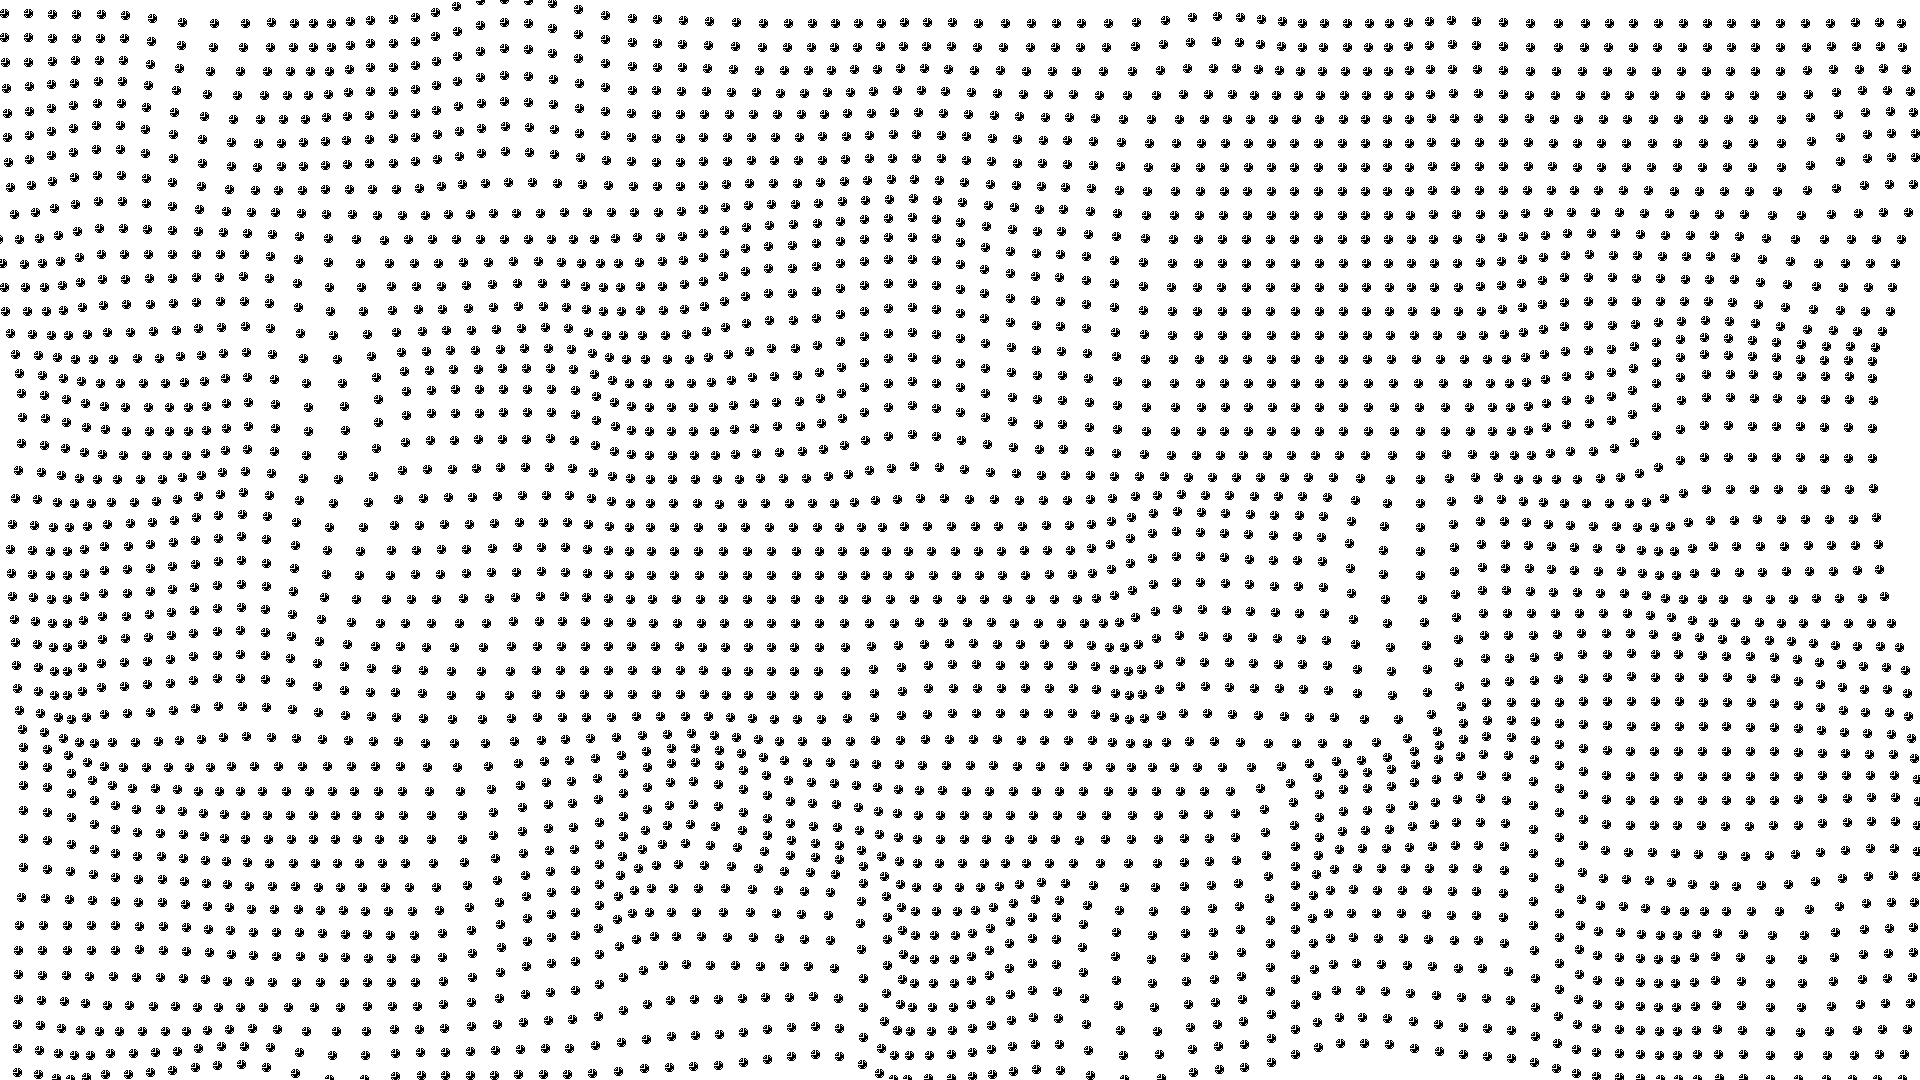
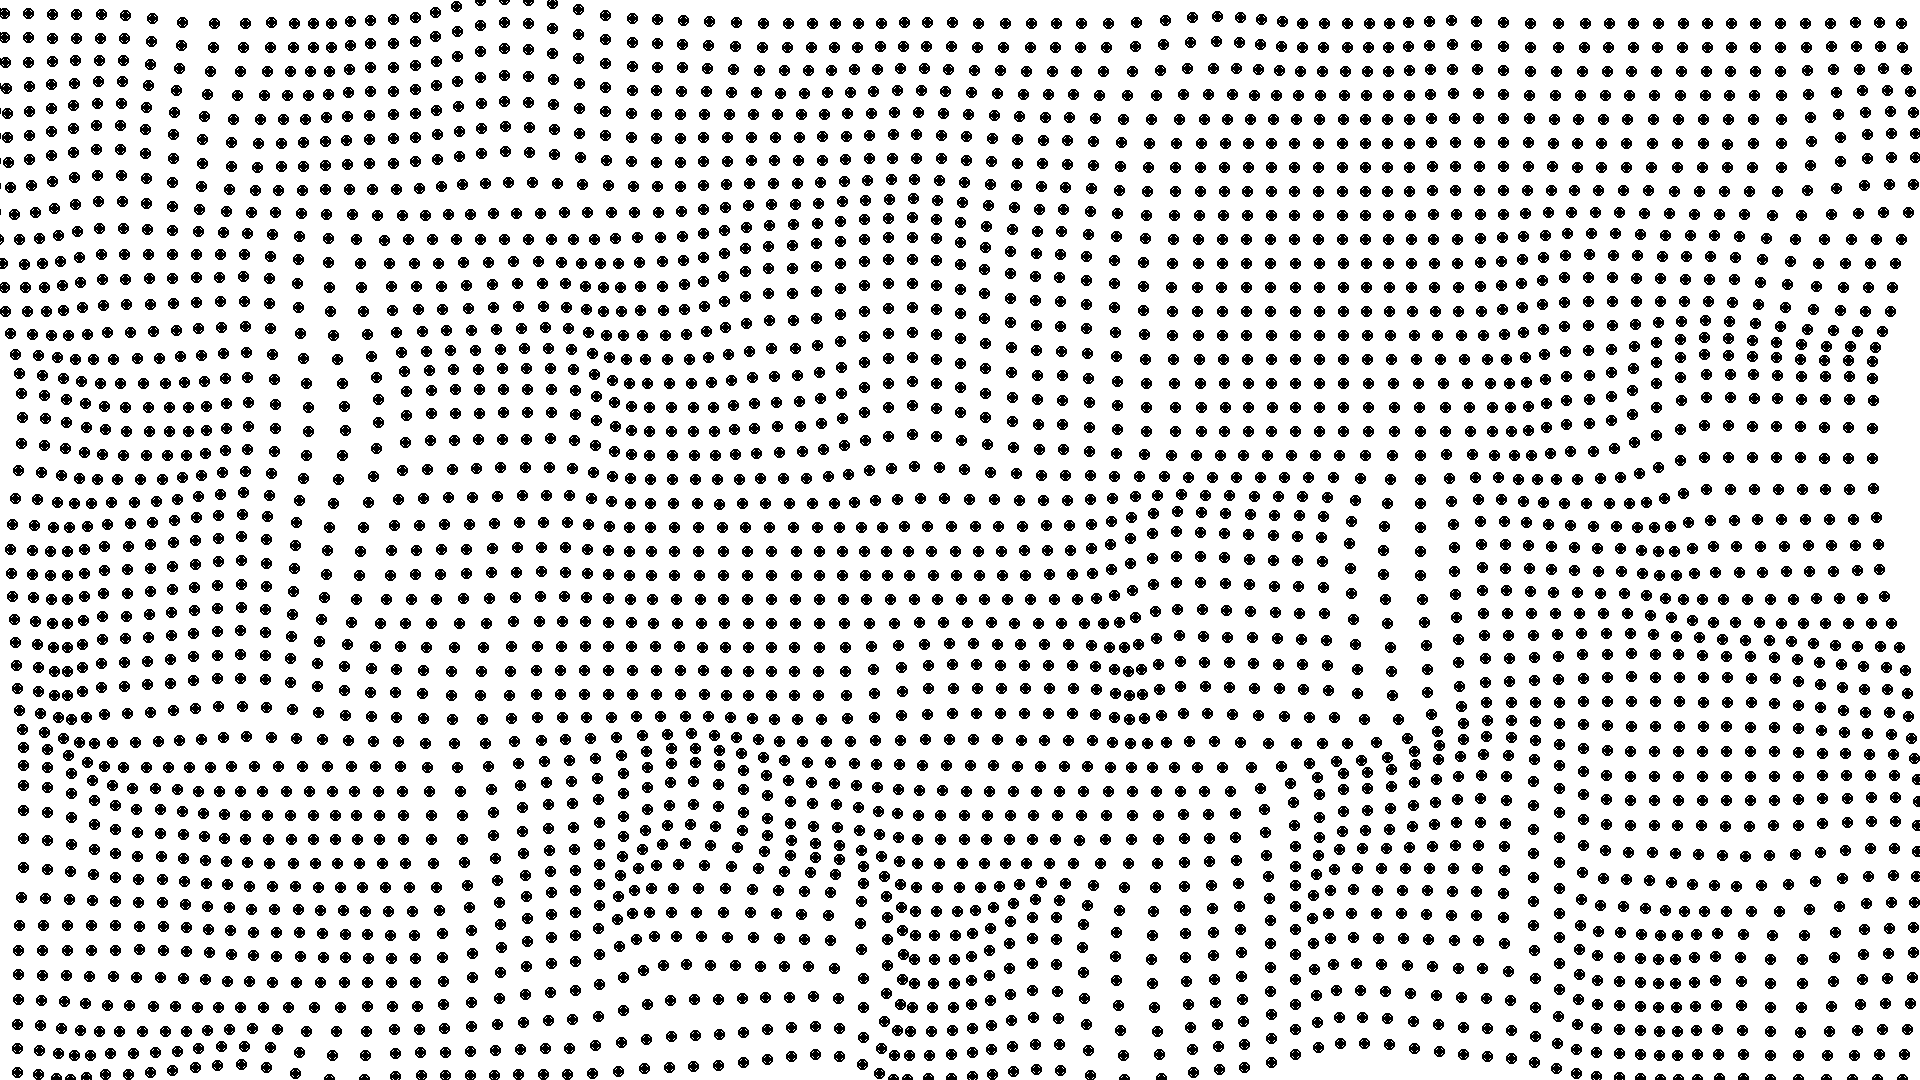
- Added Perlin force field example. - Added palette crate as future dependency.

diff --git a/examples/perlin_field_lines.rs b/examples/perlin_field_lines.rs
@@ -1,0 +1,88 @@
+use generative::prelude::*;
+
+fn setup() -> Canvas {
+    let mut canvas = Canvas::new(1920, 1080);
+    canvas.fill((12, 12, 12, 255));
+    canvas
+}
+
+fn field_point_generator(
+    field_points_holder: &mut Vec<Vec<Point>>,
+    field_points_xy_holder: &mut Vec<Vec<Point>>,
+    canvas: &mut Canvas,
+) {
+    let amp = 15.0;
+    let perlin = PerlinNoise2D::new(1, amp, 0.2, 1.75, 10.0, (100.0, 100.0), 0.5, 101);
+    let width = canvas.get_width() as usize;
+    let height = canvas.get_height() as usize;
+    let step = 12;
+
+    for row in (0..height).step_by(step) {
+        let mut points = vec![];
+        let mut points_xy = vec![];
+        for col in (0..width).step_by(step) {
+            let noise = perlin.get_noise(row as f64, col as f64) as f32;
+            let angle = 2.0 * std::f32::consts::PI * norm(noise, 0.0, amp as f32);
+            let x = step as f32 * angle.cos() + row as f32;
+            let y = step as f32 * angle.sin() + col as f32;
+
+            points_xy.push(Point::new(row as f32, col as f32));
+            points.push(Point::new(x, y));
+        }
+        field_points_holder.push(points);
+        field_points_xy_holder.push(points_xy);
+    }
+}
+
+fn display(canvas: &mut Canvas) {
+    let width = canvas.get_width();
+    let height = canvas.get_height();
+    let mut field_points = Vec::<Vec<Point>>::new();
+    let mut field_points_xy = Vec::<Vec<Point>>::new();
+    field_point_generator(&mut field_points, &mut field_points_xy, canvas);
+
+    let radius = 8_f32;
+    for _ in 0..1500 {
+        let x_rand = random(0.0, height as f32);
+        let y_rand = random(0.0, width as f32);
+        let mut p_rand = Point::new(x_rand, y_rand);
+        let mut points = vec![p_rand];
+        let mut final_point = Point::new(x_rand, y_rand);
+
+        let color = (
+            random(0.0, 255.0) as u8,
+            random(0.0, 255.0) as u8 % 10,
+            random(0.0, 255.0) as u8,
+            255,
+        );
+
+        for _ in 0..1000 {
+            if final_point.get_x() >= 0.0
+                && final_point.get_x() < height as f32
+                && final_point.get_y() >= 0.0
+                && final_point.get_y() < width as f32
+            {
+                for (point_vec, point_xy_vec) in field_points.iter().zip(field_points_xy.iter()) {
+                    for (point, point_xy) in point_vec.iter().zip(point_xy_vec.iter()) {
+                        if point.euclid_dist_square(&p_rand) <= radius.powf(2.0) {
+                            let i = point.get_x() - point_xy.get_x();
+                            let j = point.get_y() - point_xy.get_y();
+                            final_point.set_x(final_point.get_x() + i);
+                            final_point.set_y(final_point.get_y() + j);
+                        }
+                    }
+                }
+                points.push(final_point);
+                p_rand = final_point;
+            }
+        }
+        let mut line = Line_aa::new(points.clone(), color, 1, canvas);
+        line.draw(canvas);
+    }
+}
+
+fn main() {
+    let mut canvas = setup();
+    display(&mut canvas);
+    canvas.save_as_image("examples/outputs/perlin_field_lines.png");
+}

diff --git a/examples/perlin_force_field.rs b/examples/perlin_force_field.rs
@@ -18,14 +18,14 @@ fn display(canvas: &mut Canvas) {
             let angle = 2.0 * std::f32::consts::PI * norm(noise, 0.0, amp as f32);
             let x = step as f32 * angle.cos() + row as f32;
             let y = step as f32 * angle.sin() + col as f32;
-            // let points = vec![Point::new(row as f32, col as f32), Point::new(x, y)];
-            // let mut line = Line_aa::new(points, (0, 0, 0, 255), 1, canvas);
-            // line.draw(canvas);
-            for i in 0..5 {
+
+            for i in 1..=5 {
                 let mut circle = Circle::new(Point::new(x, y), i as f32, (0, 0, 0, 255), 1);
                 circle.draw(canvas);
+                canvas.set_pixel_at(x as usize, y as usize, (0, 0, 0, 255));
+                canvas.set_pixel_at(x as usize - i, y as usize, (0, 0, 0, 255));
+                canvas.set_pixel_at(x as usize, y as usize - i, (0, 0, 0, 255));
             }
-            // canvas.set_pixel_at(x as usize, y as usize, (0, 0, 0, 255));
         }
     }
 }

diff --git a/src/lib.rs b/src/lib.rs
@@ -70,6 +70,9 @@ impl Point {
     pub fn get_y(&self) -> f32 {
         self.y
     }
+    pub fn euclid_dist_square(&self, other: &Self) -> f32 {
+        (self.x - other.x).powf(2.0) + (self.y - other.y).powf(2.0)
+    }
 }
 
 impl From<(f32, f32)> for Point {

diff --git a/src/prelude.rs b/src/prelude.rs
@@ -9,4 +9,5 @@ pub use crate::shape_aa::shape2d::{
 };
 pub use crate::transforms::*;
 pub use crate::{Angle, Pixel, Point, Spline, Transform};
+pub use palette;
 pub use perlin2d::PerlinNoise2D;

diff --git a/README.md b/README.md
@@ -26,7 +26,7 @@ Currently it is in nascent stage and is somewhat unstable.
 #### Perlin Loop
 ![Perlin Loop](examples/outputs/perlin_loop.png)
 #### Perlin Force Field
-![Perlin Force Field](examples/outputs/perlin_force_field.png)
+![Perlin Force Field Lines](examples/outputs/perlin_field_lines.png)
 #### Watercolored Circles
 ![Watercolored Circles](examples/outputs/watercolor_circles.png)
 #### Mandelbrot
